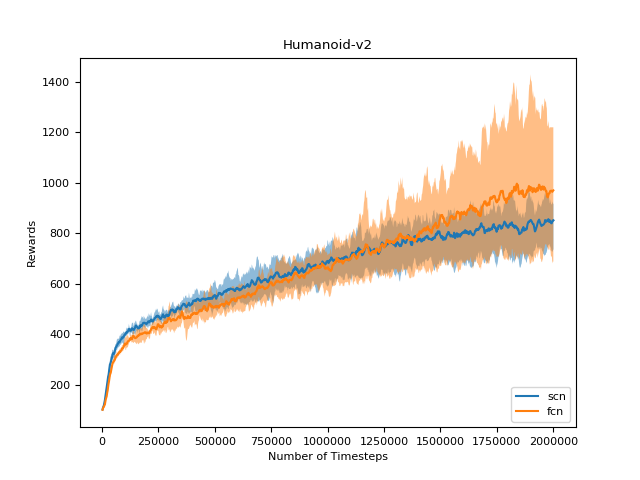
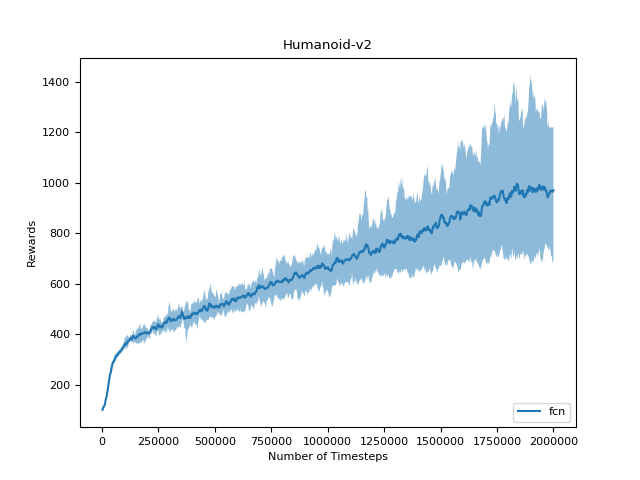
Script for printing reward max

Changed region(s): [[0.1562, 0.1562, 0.875, 0.8438], [0.7812, 0.8125, 0.9062, 0.875], [0.75, 0.9062, 0.8125, 0.9375]]

diff --git a/compare.py b/compare.py
@@ -1,0 +1,72 @@
+import glob
+import json
+import os
+
+import matplotlib
+import matplotlib.pyplot as plt
+import numpy as np
+from scipy.signal import medfilt
+
+matplotlib.rcParams.update({'font.size': 8})
+
+def plot(seeds, reward_scale, alg, env_id):
+    rws = []
+    tss = -1
+    max_len = -1
+    for seed in seeds:
+
+        rw = np.loadtxt('./baselines/'+alg+'/data/'+env_id+'_s'+str(seed)+'_r'+str(reward_scale)+'_rew.txt') * (1 / reward_scale)
+        if rw.size > max_len:
+            max_len = rw.size
+            tss = np.loadtxt('./baselines/'+alg+'/data/'+env_id+'_s'+str(seed)+'_r'+str(reward_scale)+'_ts.txt')
+        rws.append(rw)
+
+    for i in range(len(rws)):
+        if rws[i].size < max_len:
+            rws[i] = np.pad(rws[i],(0,max_len-rws[i].size),'edge')
+    rws = np.stack(rws)
+    max = np.amax(rws, axis=0)
+    min = np.amin(rws, axis=0)
+    mean = np.mean(rws, axis=0)
+    return tss, max, min, mean
+
+
+def plot2(seeds, reward_scale, alg, env_id, e):
+    rws = []
+    tss = -1
+    max_len = -1
+    for seed in seeds:
+
+        rw = np.loadtxt('./baselines/'+alg+'/data/'+env_id+'_s'+str(seed)+'_r'+str(reward_scale)+'_rew'+e+'.txt') * (1 / reward_scale)
+        if rw.size > max_len:
+            max_len = rw.size
+            tss = np.loadtxt('./baselines/'+alg+'/data/'+env_id+'_s'+str(seed)+'_r'+str(reward_scale)+'_ts'+e+'.txt')
+        rws.append(rw)
+
+    for i in range(len(rws)):
+        if rws[i].size < max_len:
+            rws[i] = np.pad(rws[i],(0,max_len-rws[i].size),'edge')
+    rws = np.stack(rws)
+    max = np.amax(rws, axis=0)
+    min = np.amin(rws, axis=0)
+    mean = np.mean(rws, axis=0)
+    return tss, max, min, mean
+
+
+env_id = "Humanoid-v2"
+seeds = [1,2,3,4,5]
+reward_scale = 1.0
+algs = ['fcn']
+for alg in algs:
+    ts, ma, mi, avg = plot2(seeds, reward_scale, alg, env_id, "_sserg")
+    print(np.amax(avg))
+    plt.fill_between(ts, ma,mi, alpha=0.5)
+    plt.plot(ts, avg, label="{}".format(alg))
+
+plt.title(env_id)
+plt.legend(loc=4)
+plt.xlabel('Number of Timesteps')
+plt.ylabel('Rewards')
+
+
+plt.savefig("./check/"+env_id+'.png')
